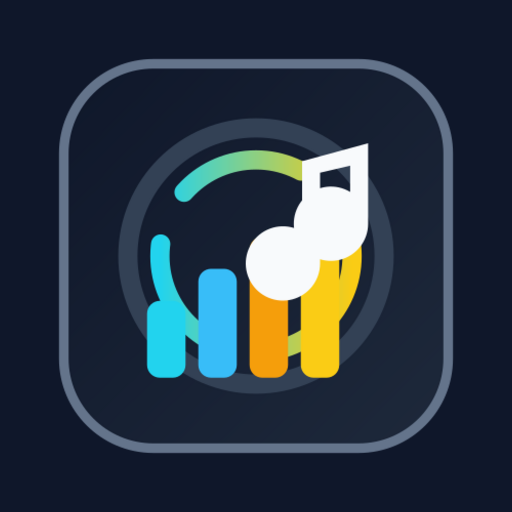
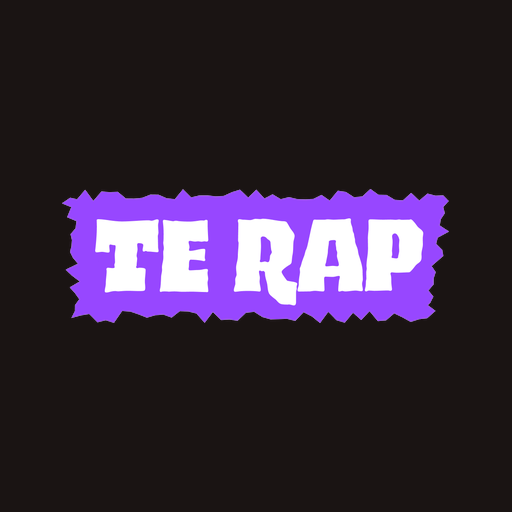
update

diff --git a/docs/sw.js b/docs/sw.js
@@ -84,13 +84,13 @@ define(['./workbox-b717800f'], (function (workbox) { 'use strict';
     "revision": "402b66900e731ca748771b6fc5e7a068"
   }, {
     "url": "pwa-512x512.png",
-    "revision": "6e9cdda497956f192a211e78f6f25caf"
+    "revision": "b9121a67b4dfa0a0e510f748d4176150"
   }, {
     "url": "pwa-192x192.png",
-    "revision": "bf8c2b54e966a95f956922ca8194d39d"
+    "revision": "035075d82a0210cfed502e71a4a6053e"
   }, {
     "url": "maskable-512x512.png",
-    "revision": "c466533ef5c7da138d8299ffc96bc321"
+    "revision": "18b0acb1ba1f1a8381762dcccd881a38"
   }, {
     "url": "index.html",
     "revision": "3cf85bb4b11ab4b3b880dc98c6be7ba3"
@@ -150,16 +150,16 @@ define(['./workbox-b717800f'], (function (workbox) { 'use strict';
     "revision": "60407eccbf1dcecb6d8e75d779cbc2c3"
   }, {
     "url": "maskable-512x512.png",
-    "revision": "c466533ef5c7da138d8299ffc96bc321"
+    "revision": "18b0acb1ba1f1a8381762dcccd881a38"
   }, {
     "url": "pwa-192x192.png",
-    "revision": "bf8c2b54e966a95f956922ca8194d39d"
+    "revision": "035075d82a0210cfed502e71a4a6053e"
   }, {
     "url": "pwa-512x512.png",
-    "revision": "6e9cdda497956f192a211e78f6f25caf"
+    "revision": "b9121a67b4dfa0a0e510f748d4176150"
   }, {
     "url": "manifest.webmanifest",
-    "revision": "5e73237ee1a0910032f0f6ce44177aed"
+    "revision": "626525331cd1d2ff694aef81f9c3f822"
   }], {});
   workbox.cleanupOutdatedCaches();
   workbox.registerRoute(new workbox.NavigationRoute(workbox.createHandlerBoundToURL("index.html")));